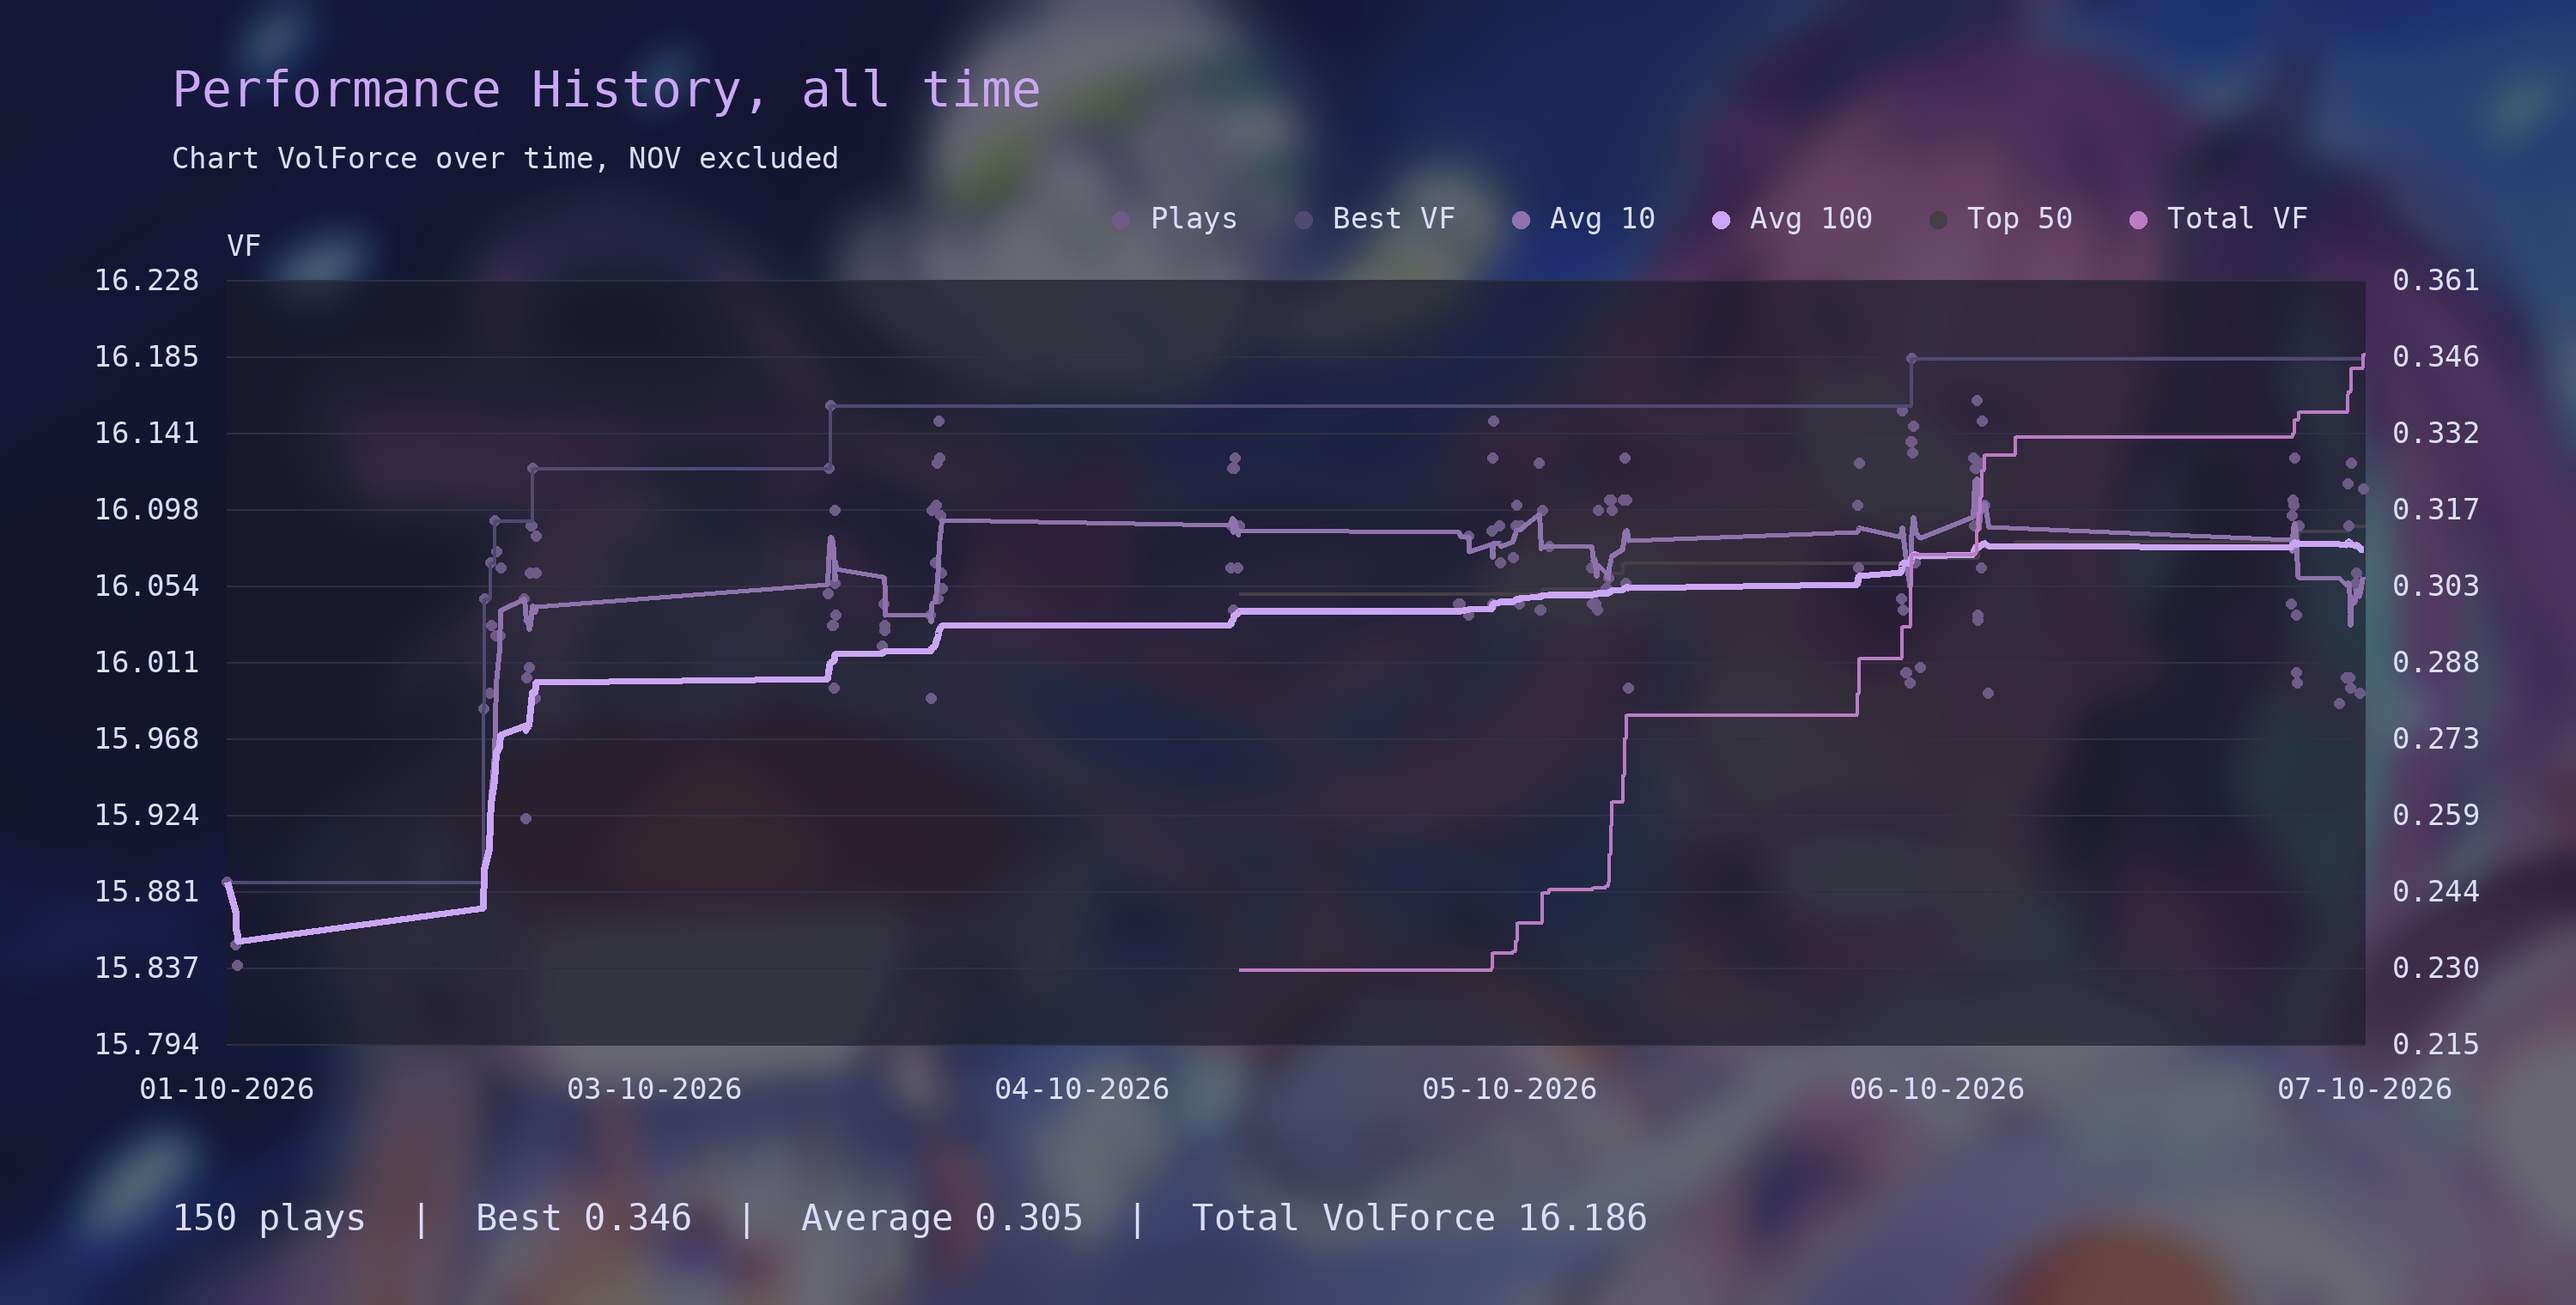
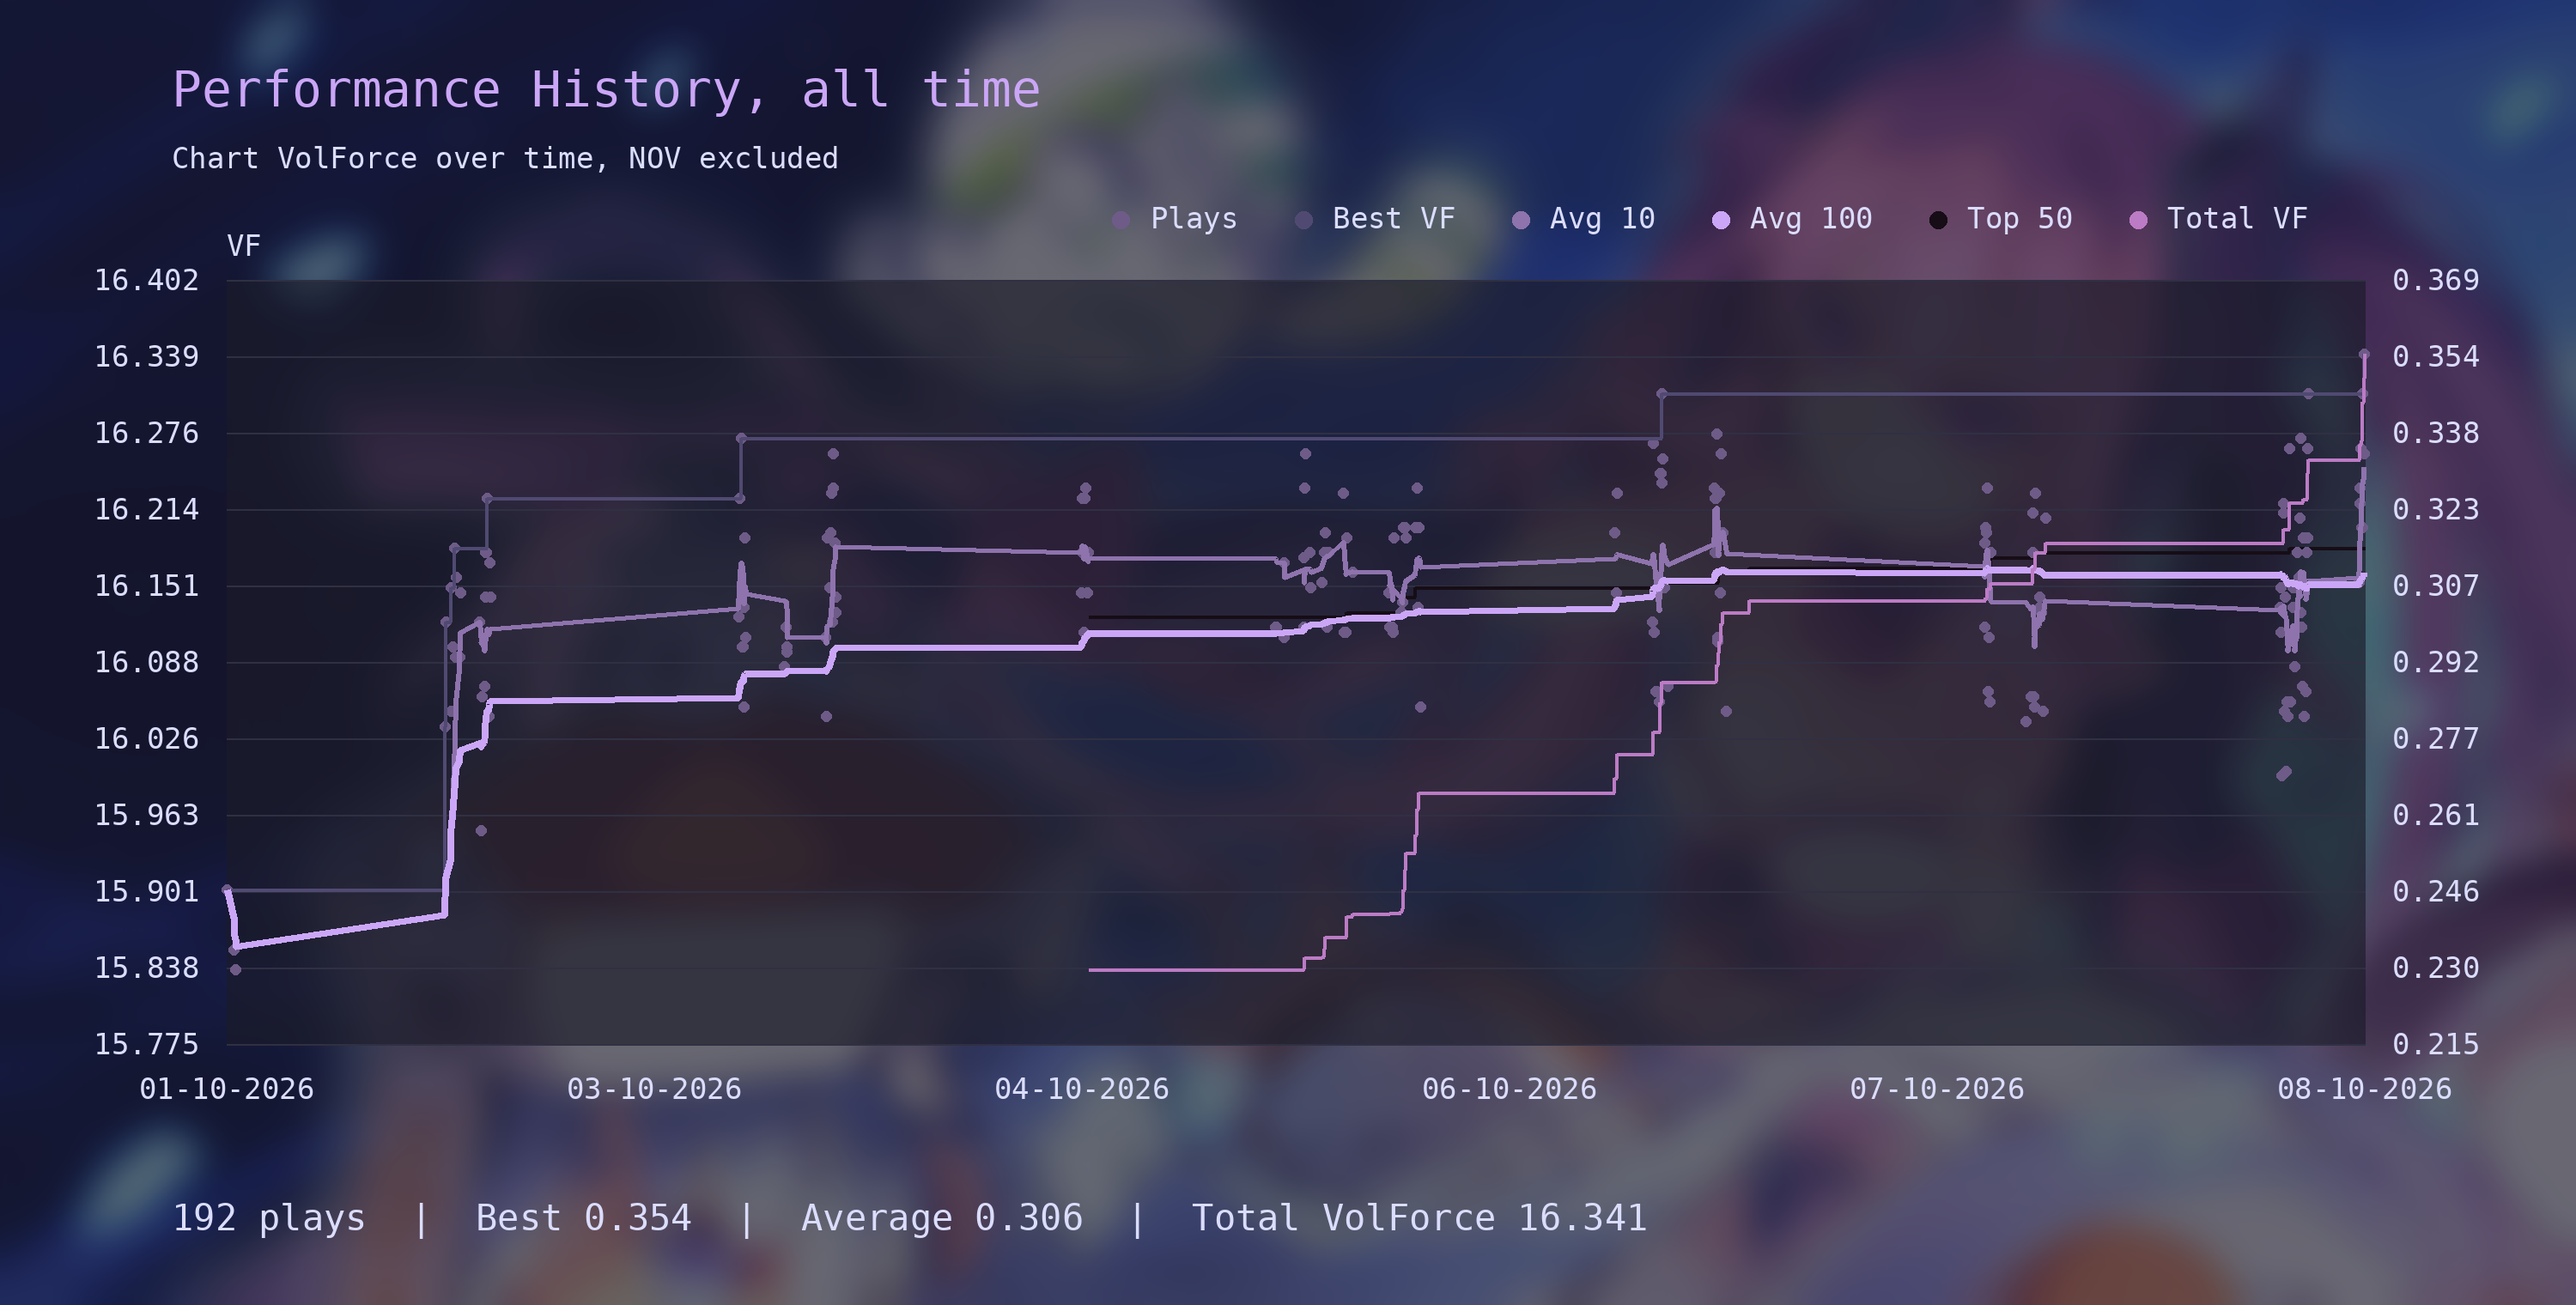
Make Top 50 VF line very dark on perf graph

diff --git a/tracker/performance_chart.py b/tracker/performance_chart.py
@@ -20,10 +20,10 @@ from config import (
     PERFORMANCE_GRID_COLOR,
     PERFORMANCE_IMAGE_HEIGHT,
     PERFORMANCE_IMAGE_WIDTH,
-    PERFORMANCE_MINIMUM_COLOR,
     PERFORMANCE_PANEL_COLOR,
     PERFORMANCE_PANEL_DIM,
     PERFORMANCE_TEXT_COLOR,
+    PERFORMANCE_TOP50_COLOR,
     PERFORMANCE_TOTAL_COLOR,
     REPO_ROOT,
 )
@@ -315,13 +315,13 @@ def render_performance_graph(
     if threshold_segments:
         for points in threshold_segments:
             if len(points) > 1:
-                draw.line(points, fill=PERFORMANCE_MINIMUM_COLOR, width=pixels(2))
+                draw.line(points, fill=PERFORMANCE_TOP50_COLOR, width=pixels(2))
             else:
                 x, y = points[0]
                 radius = pixels(3)
                 draw.ellipse(
                     (x - radius, y - radius, x + radius, y + radius),
-                    fill=PERFORMANCE_MINIMUM_COLOR,
+                    fill=PERFORMANCE_TOP50_COLOR,
                 )
 
     best = 0
@@ -399,7 +399,7 @@ def render_performance_graph(
         ("Avg 100", purple),
     ]
     if threshold_segments:
-        legend.append(("Top 50", PERFORMANCE_MINIMUM_COLOR))
+        legend.append(("Top 50", PERFORMANCE_TOP50_COLOR))
     if observations:
         legend.append(("Total VF", PERFORMANCE_TOTAL_COLOR))
     legend_width = sum(

diff --git a/config.py b/config.py
@@ -48,7 +48,7 @@ PERFORMANCE_PANEL_COLOR = "#1b1b29"
 PERFORMANCE_GRID_COLOR = "#303043"
 PERFORMANCE_BEST_COLOR = "#504A72"
 PERFORMANCE_AVG_10_COLOR = "#8e73ad"
-PERFORMANCE_MINIMUM_COLOR = "#463F46"
+PERFORMANCE_TOP50_COLOR = "#160D16"
 PERFORMANCE_TOTAL_COLOR = "#bc7bc5"
 
 logging.basicConfig(
